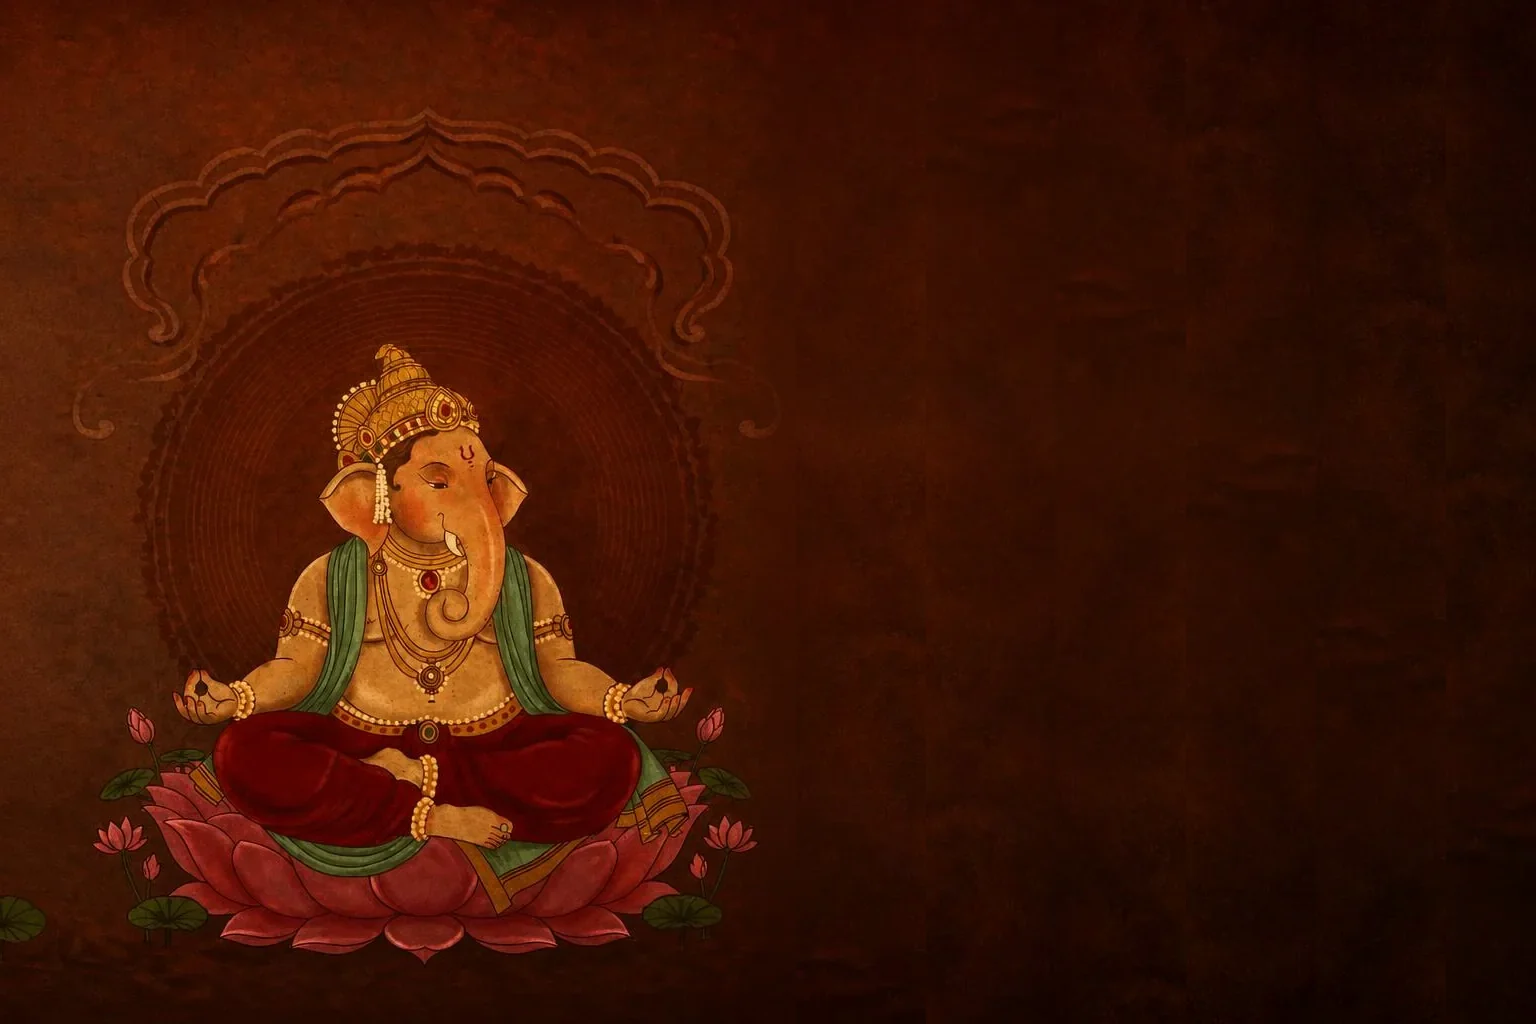
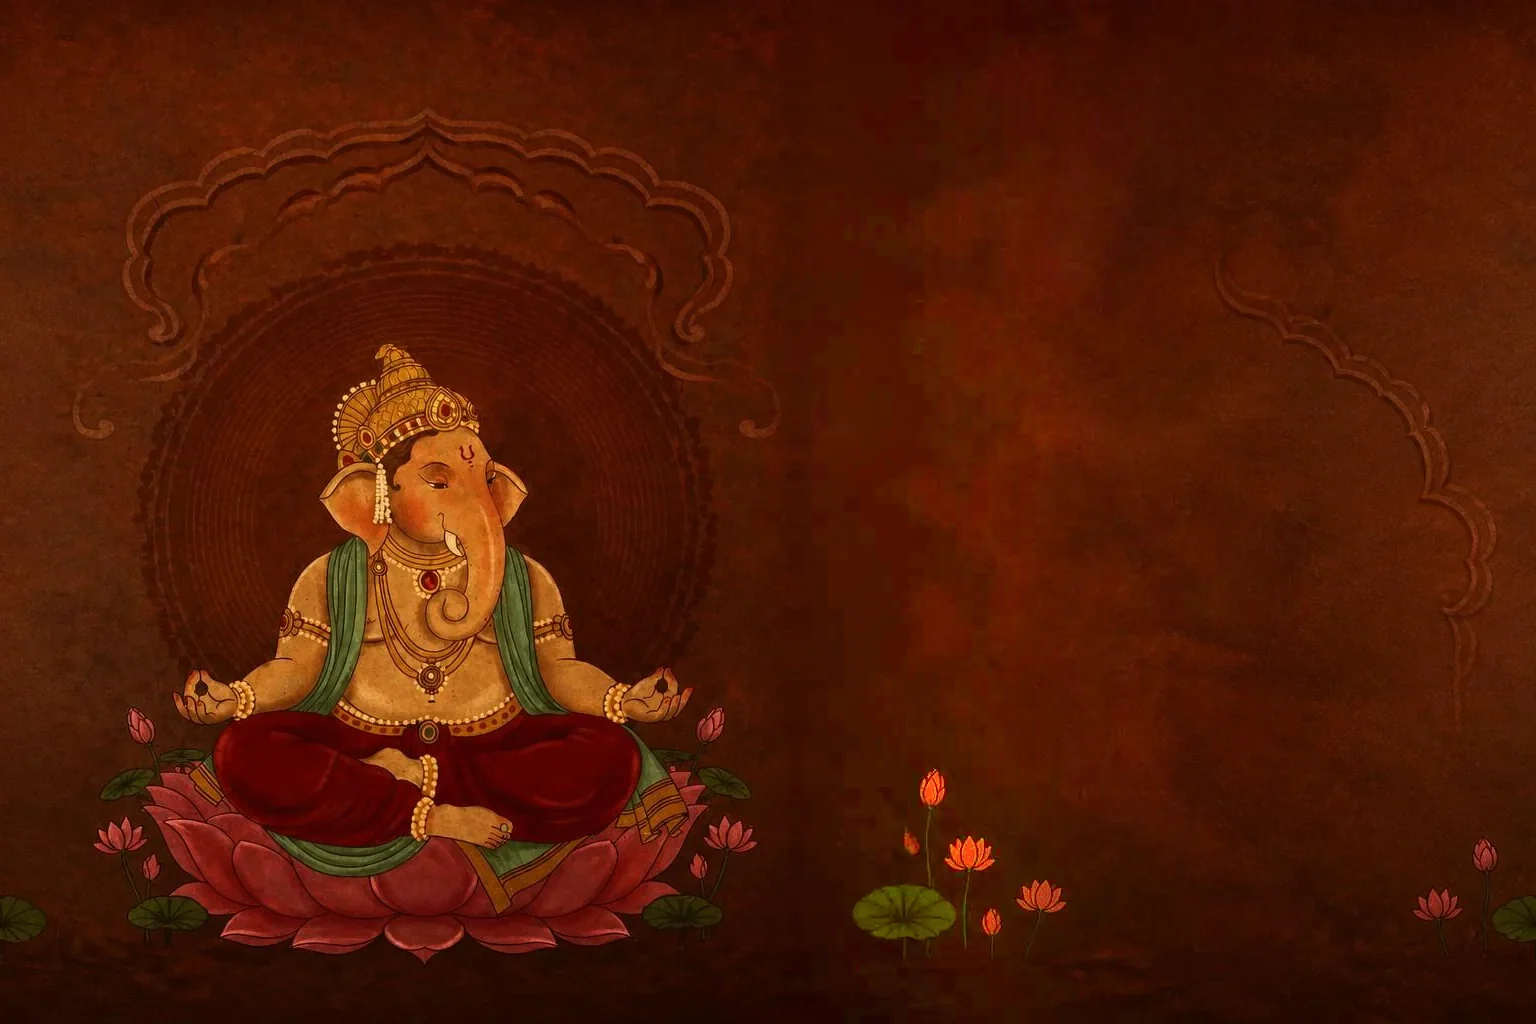
aura

diff --git a/js/live2.js b/js/live2.js
@@ -1,14 +1,15 @@
 /* ==========================================================================
    Live hero background for picture 2 (Ganesha on the lotus, on the left, looking right at the text).
-   Very quiet movement, painted on top of img/hero-2.webp:
-     - the aura around Ganesha breathes: a soft warm glow that swells and fades, and one faint ring
-       that drifts slowly outwards
-     - a few of the small lotus flowers and buds sway a tiny bit on their stems
+   Quiet movement, painted on top of img/hero-2.webp:
+     - the aura around Ganesha breathes: a soft warm glow swells and fades, and two faint rings drift slowly
+       outwards. Ganesha is cut out with img/hero-2-aura-mask.webp, so the light never touches him.
+     - three of the small lotus flowers around him sway a little, as if a light wind blows
+       (img/hero-2-plate.webp is the same picture without those flowers, so no static copy shows underneath)
 
    Same method as js/live.js: all positions are in PICTURE pixels (the print is 1536 x 1024). The page shows the
    print as a "cover" background, left aligned, so this file works out where the picture sits and draws in
    picture pixels. A "warped patch" copies a small piece of the picture row by row and shifts each row a little
-   (most at the top of the stem, nothing at the bottom) with soft edges so the copy blends in.
+   (most at the flower, nothing at the bottom of the stem) with soft edges so the copy blends in.
 
    Wide screens only (phones use another picture). Nothing runs for people who asked for reduced motion.
    Paused while the hero is off screen or the tab is hidden. To tune the feel, change the settings just below.
@@ -28,93 +29,129 @@
 
   /* ----- Settings you may want to tweak ----- */
   const PICTURE_WIDTH = 1536, PICTURE_HEIGHT = 1024;   // size of img/hero-2.webp
-  const LOTUS_SWAY = 1.3;            // picture pixels a flower sways at the top (keep small)
-  const LOTUS_SPEED = 1.0;           // how fast they sway (1 = slow and gentle)
-  const AURA_GLOW = 0.075;           // brightest the aura glow gets (0 = none)
-  const AURA_SPEED = 0.55;           // how fast the glow breathes
-  const RING_OPACITY = 0.085;        // how visible the drifting ring is (0 = none)
-  const RING_SECONDS = 9;            // time for the ring to drift out and fade
+  const WIND_SWAY = 3.4;             // picture pixels the top of a flower moves (bigger = stronger breeze)
+  const WIND_SPEED = 1.0;            // how fast the breeze changes (1 = gentle)
+  const AURA_GLOW_LOW = 0.10;        // glow brightness at its dimmest
+  const AURA_GLOW_HIGH = 0.26;       // glow brightness at its brightest (0 = none)
+  const AURA_SPEED = 0.7;            // how fast the glow breathes
+  const RING_OPACITY = 0.30;         // how visible the drifting rings are (0 = none)
+  const RING_SECONDS = 8;            // time for a ring to drift out and fade
 
   /* ----- Where things are, in picture pixels ----- */
   const AURA = { x: 425, y: 531, radius: 283 };          // the round halo behind Ganesha
+  const AURA_BOX = { x: 90, y: 196, w: 670, h: 670 };    // the part of the picture the mask file covers
 
   const pen = canvas.getContext("2d");
-  const picture = new Image();
-  let pictureReady = false;
-  picture.onload = () => { pictureReady = true; resize(); };
-  picture.src = "img/hero-2.webp";
+  const picture = new Image(), plate = new Image(), mask = new Image();
+  let loaded = 0;
+  function oneLoaded() { loaded++; if (loaded === 3) resize(); }
+  [[picture, "img/hero-2.webp"], [plate, "img/hero-2-plate.webp"], [mask, "img/hero-2-aura-mask.webp"]].forEach(([image, src]) => {
+    image.onload = oneLoaded; image.src = src;
+  });
+
+  const aura = document.createElement("canvas");          // the aura is drawn here first, then Ganesha is cut out
+  aura.width = AURA_BOX.w; aura.height = AURA_BOX.h;
+  const auraPen = aura.getContext("2d");
 
   let running = false, lastTime = 0, clock = 0;
 
-  function makePatch(box, wave) {
-    const pad = 5;
+  /* ----- A light breeze: a slow main sway plus smaller wobbles, and the odd gust ----- */
+  function breeze(t) {
+    const gust = 0.7 + 0.3 * Math.sin(t * 0.33);
+    return gust * (0.6 * Math.sin(t * 0.95) + 0.28 * Math.sin(t * 1.9 + 1.3) + 0.12 * Math.sin(t * 3.4 + 0.4));
+  }
+
+  function makePatch(box, lag, strength) {
+    const pad = 6, coverPad = 14;
     const piece = document.createElement("canvas");
     piece.width = box.w + pad * 2; piece.height = box.h + pad * 2;
-    return { box, wave, pad, piece, pieceCtx: piece.getContext("2d") };
+    const cover = document.createElement("canvas");
+    cover.width = box.w + coverPad * 2; cover.height = box.h + coverPad * 2;
+    return { box, lag, strength, pad, coverPad, piece, pieceCtx: piece.getContext("2d"), cover, coverCtx: cover.getContext("2d"), covered: false };
   }
 
-  /* a lotus on its stem: free at the top, fixed at the bottom; each one has its own rhythm */
-  function lotusWave(seed, strength) {
-    return (p, t) => LOTUS_SWAY * strength * Math.pow(1 - p, 1.4) *
-      (Math.sin(t * 1.25 * LOTUS_SPEED + seed + p * 1.5) * 0.7 + Math.sin(t * 0.8 * LOTUS_SPEED + seed * 2.3) * 0.3);
-  }
-
+  /* three flowers close to Ganesha: the right bud, and the open flower on each side */
   const patches = [
-    makePatch({ x: 124, y: 703, w: 38, h: 70 },  lotusWave(0.0, 1.0)),   // bud, left of Ganesha
-    makePatch({ x: 88,  y: 810, w: 62, h: 66 },  lotusWave(1.7, 1.0)),   // open flower, left
-    makePatch({ x: 140, y: 850, w: 25, h: 44 },  lotusWave(3.1, 0.8)),   // small bud, left
-    makePatch({ x: 690, y: 703, w: 40, h: 72 },  lotusWave(4.4, 1.0)),   // bud, right of Ganesha
-    makePatch({ x: 698, y: 810, w: 64, h: 70 },  lotusWave(5.9, 1.0)),   // open flower, right
-    makePatch({ x: 686, y: 850, w: 26, h: 44 },  lotusWave(2.4, 0.8))    // small bud, right
+    makePatch({ x: 690, y: 703, w: 40, h: 72 }, 0.0, 0.9),     // bud, right of Ganesha
+    makePatch({ x: 88,  y: 810, w: 62, h: 66 }, 1.1, 1.0),     // open flower, left
+    makePatch({ x: 698, y: 810, w: 64, h: 70 }, 2.3, 1.0)      // open flower, right
   ];
 
+  function feather(ctx, w, h, inner) {
+    ctx.globalCompositeOperation = "destination-in";
+    ctx.save();
+    ctx.translate(w / 2, h / 2);
+    ctx.scale(w / 2, h / 2);
+    const fade = ctx.createRadialGradient(0, 0, 0, 0, 0, 1);
+    fade.addColorStop(0, "rgba(0,0,0,1)");
+    fade.addColorStop(inner, "rgba(0,0,0,1)");
+    fade.addColorStop(1, "rgba(0,0,0,0)");
+    ctx.fillStyle = fade;
+    ctx.fillRect(-1, -1, 2, 2);
+    ctx.restore();
+    ctx.globalCompositeOperation = "source-over";
+  }
+
   function drawPatch(patch, time) {
-    const { box, wave, pad, piece, pieceCtx } = patch;
-    pieceCtx.globalCompositeOperation = "source-over";
+    const { box, lag, strength, pad, coverPad, piece, pieceCtx, cover, coverCtx } = patch;
+    // 1. the still picture without the flower, so the flower is not drawn twice
+    if (!patch.covered) {
+      coverCtx.clearRect(0, 0, cover.width, cover.height);
+      coverCtx.drawImage(plate, box.x - coverPad, box.y - coverPad, cover.width, cover.height, 0, 0, cover.width, cover.height);
+      feather(coverCtx, cover.width, cover.height, 0.9);
+      patch.covered = true;
+    }
+    pen.drawImage(cover, box.x - coverPad, box.y - coverPad);
+    // 2. the flower copied row by row, each row shifted a little by the breeze
     pieceCtx.clearRect(0, 0, piece.width, piece.height);
+    const wind = breeze(time * WIND_SPEED - lag);
     for (let row = 0; row < piece.height; row++) {
       const progress = Math.min(1, Math.max(0, (row - pad) / box.h));
-      const shift = wave(progress, time);
+      const shift = WIND_SWAY * strength * wind * Math.pow(1 - progress, 1.5);
       pieceCtx.drawImage(picture, box.x - pad - shift, box.y - pad + row, piece.width, 1, 0, row, piece.width, 1);
     }
-    // soft edges so the copy melts into the picture underneath
-    pieceCtx.globalCompositeOperation = "destination-in";
-    pieceCtx.save();
-    pieceCtx.translate(piece.width / 2, piece.height / 2);
-    pieceCtx.scale(piece.width / 2, piece.height / 2);
-    const fade = pieceCtx.createRadialGradient(0, 0, 0, 0, 0, 1);
-    fade.addColorStop(0, "rgba(0,0,0,1)");
-    fade.addColorStop(0.72, "rgba(0,0,0,1)");
-    fade.addColorStop(1, "rgba(0,0,0,0)");
-    pieceCtx.fillStyle = fade;
-    pieceCtx.fillRect(-1, -1, 2, 2);
-    pieceCtx.restore();
+    feather(pieceCtx, piece.width, piece.height, 0.72);
     pen.drawImage(piece, box.x - pad, box.y - pad);
   }
 
-  /* ----- The aura: a breathing glow near the edge of the halo, and one faint ring drifting outwards ----- */
+  /* ----- The aura: a breathing glow around the halo and rings drifting outwards, never over Ganesha ----- */
   function drawAura(time) {
     const { x, y, radius } = AURA;
-    const breathe = 0.5 + 0.5 * Math.sin(time * AURA_SPEED);                 // 0 to 1, slow
-    const strength = AURA_GLOW * (0.35 + 0.65 * breathe);
-    const glow = pen.createRadialGradient(x, y, radius * 0.62, x, y, radius * 1.16);
-    glow.addColorStop(0, "rgba(255, 150, 70, 0)");
-    glow.addColorStop(0.55, `rgba(255, 150, 70, ${strength})`);
-    glow.addColorStop(1, "rgba(255, 130, 50, 0)");
-    pen.fillStyle = glow;
-    pen.beginPath(); pen.arc(x, y, radius * 1.16, 0, 7); pen.fill();
+    const cx = x - AURA_BOX.x, cy = y - AURA_BOX.y;
+    auraPen.globalCompositeOperation = "source-over";
+    auraPen.clearRect(0, 0, aura.width, aura.height);
 
-    const phase = (time % RING_SECONDS) / RING_SECONDS;                        // 0 to 1, then starts again
-    const ringRadius = radius * (0.84 + 0.2 * phase);
-    const alpha = RING_OPACITY * Math.sin(Math.PI * phase);
-    pen.strokeStyle = `rgba(255, 190, 110, ${alpha})`;
-    pen.lineWidth = 2.2;
-    pen.beginPath(); pen.arc(x, y, ringRadius, 0, 7); pen.stroke();
+    const breathe = 0.5 + 0.5 * Math.sin(time * AURA_SPEED);                 // 0 to 1, slow
+    const strength = AURA_GLOW_LOW + (AURA_GLOW_HIGH - AURA_GLOW_LOW) * breathe;
+    const swell = 1 + 0.03 * Math.sin(time * AURA_SPEED);                  // the glow also swells a touch
+    const glow = auraPen.createRadialGradient(cx, cy, radius * 0.5 * swell, cx, cy, radius * 1.17 * swell);
+    glow.addColorStop(0, "rgba(255, 150, 70, 0)");
+    glow.addColorStop(0.5, `rgba(255, 160, 80, ${strength})`);
+    glow.addColorStop(1, "rgba(255, 130, 50, 0)");
+    auraPen.fillStyle = glow;
+    auraPen.beginPath(); auraPen.arc(cx, cy, radius * 1.17 * swell, 0, 7); auraPen.fill();
+
+    for (let i = 0; i < 2; i++) {                                           // two rings, half a cycle apart
+      const phase = ((time / RING_SECONDS) + i * 0.5) % 1;                    // 0 to 1, then starts again
+      const ringRadius = radius * (0.80 + 0.30 * phase);
+      const alpha = RING_OPACITY * Math.sin(Math.PI * phase);
+      auraPen.strokeStyle = `rgba(255, 200, 120, ${alpha})`;
+      auraPen.lineWidth = 3;
+      auraPen.beginPath(); auraPen.arc(cx, cy, ringRadius, 0, 7); auraPen.stroke();
+    }
+
+    auraPen.globalCompositeOperation = "destination-out";                   // cut Ganesha out, so nothing is drawn on him
+    auraPen.drawImage(mask, 0, 0);
+    auraPen.globalCompositeOperation = "source-over";
+
+    pen.globalCompositeOperation = "lighter";                               // the glow adds light instead of covering
+    pen.drawImage(aura, AURA_BOX.x, AURA_BOX.y);
+    pen.globalCompositeOperation = "source-over";
   }
 
   /* ----- Placing the drawing on top of the print ----- */
   function resize() {
-    if (!pictureReady) return;
+    if (loaded < 3) return;
     const box = hero.getBoundingClientRect();
     const ratio = Math.min(devicePixelRatio || 1, 2);
     canvas.width = Math.round(box.width * ratio);
@@ -133,9 +170,7 @@
     pen.setTransform(1, 0, 0, 1, 0, 0); pen.clearRect(0, 0, canvas.width, canvas.height);
     pen.restore();
     patches.forEach((patch) => drawPatch(patch, clock));
-    pen.globalCompositeOperation = "lighter";              // glow adds light instead of covering
     drawAura(clock);
-    pen.globalCompositeOperation = "source-over";
   }
 
   function loop(now) {
@@ -148,7 +183,7 @@
 
   let onScreen = true;
   function start() {
-    if (running || !pictureReady || !wideScreen.matches || !onScreen || document.hidden) return;
+    if (running || loaded < 3 || !wideScreen.matches || !onScreen || document.hidden) return;
     running = true; lastTime = 0;
     requestAnimationFrame(loop);
   }

diff --git a/css/site.css b/css/site.css
@@ -330,7 +330,7 @@ html[data-scene="3"] section.hero { background-image: url("../img/hero-3.webp");
 @media (min-width: 1001px) {
   html[data-scene="2"] section.hero { background-position: left center; justify-content: flex-end; padding: 110px 8vw 56px 0; }
   html[data-scene="2"] section.hero .hero-text { max-width: 38vw; width: 38vw; }
-  html[data-scene="2"] section.hero::before { background: linear-gradient(270deg, rgba(0, 0, 0, .55) 0%, rgba(0, 0, 0, .42) 38%, rgba(0, 0, 0, 0) 58%); }
+  html[data-scene="2"] section.hero::before { background: linear-gradient(270deg, rgba(0, 0, 0, .22) 0%, rgba(0, 0, 0, .14) 45%, rgba(0, 0, 0, 0) 70%); }   /* only a light fade: the picture is not darkened */
 }
 section.hero h1 em { text-wrap: balance; }   /* if the third line wraps, keep both lines even */
 
